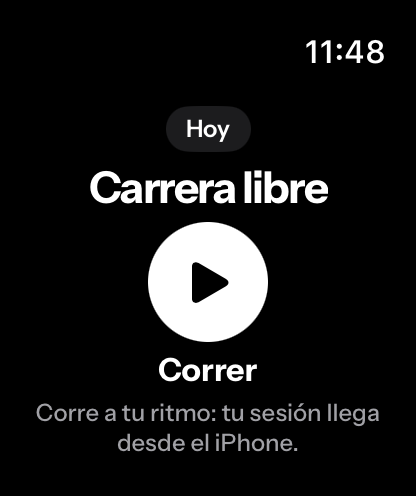
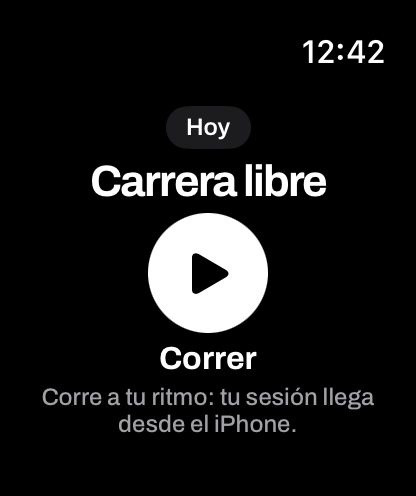
La capture de la montre est en Archivo
Claude-Session: https://claude.ai/code/session_01EC9x8EMYJdDtLWtpTwUZDH

diff --git a/PROGRESS.md b/PROGRESS.md
@@ -8838,7 +8838,7 @@ Neuf tests (`ProgrammePourUneCourseTests`), dont les fuseaux de Pacific/Auckland
 
 Les trois écrans de la montre (départ, course, bilan) passent aux aplats de l'iPhone : départ en disque blanc de 60 points portant le triangle noir, chiffres gras et
 serrés, libellés en casse de phrase, plus aucune majuscule espacée. Le rose reste `#FF0A78` (décision de Charlotte), en touches : allure, durée, barre de progression.
-Police inchangée (Instrument Sans), symboles SF conservés, boutons de course de 40 points (plancher 30).
+Symboles SF conservés, boutons de course de 40 points (plancher 30). Police : voir « La montre passe en Archivo » ci-dessous.
 
 **Vérifié sur CI** : la montre se compile, et la capture a été refaite (`montre.yml`, trois langues). Une première image avait la phrase du bas collée à l'arête de l'écran
 en anglais : `check_captures_montre.py` l'a refusée, le disque est passé de 72 à 60 points, la seconde passe est propre. Le premier relevé de cette seconde passe a échoué
@@ -8846,3 +8846,15 @@ sur un simulateur occupé (« Busy »), sans rapport avec le code ; relancé, il
 
 **Décisions de Charlotte** : aucune teinte d'alerte dans le système (on laisse comme ça) ; le rose du widget et de la montre reste l'ancien.
 **Pas vérifié** : l'écran de course et le bilan sur une vraie montre (seul l'écran de départ est photographié) ; une montre de 40 mm.
+
+## La montre passe en Archivo (20 novembre) : « oui » de Charlotte
+
+La montre écrit maintenant dans la fonte de l'iPhone, Archivo (`Archivo-Variable.ttf`, embarquée et déclarée dans l'`UIAppFonts` de la cible montre ; les cinq Instrument Sans
+n'y sont plus embarquées). UIKit n'existe pas sur le poignet : `WT.gras/semi/moyen` règlent l'axe de graisse (700, 600, 500) par un descripteur CoreText, largeur 100.
+**Pas reprise : la largeur d'affichage de l'iPhone (125 %)**, qui ferait perdre un quart de place au chrono de 42 points sur un écran de 184 de large.
+`WatchRunMetrics` garde son facteur de ligne 1,211 (celui d'Inter) comme borne haute : la ligne naturelle d'Archivo fait 1,088, donc l'écran de course occupe moins que ce que le calcul annonce.
+
+**Vérifié** : compilation de la cible montre sur CI (run n° 64), `check_fonts` et `check_spec` (une police enregistrée, livrée). La capture de l'écran de départ a été refaite et
+comparée, lettre à lettre, à un rendu d'Archivo et à un rendu d'Instrument Sans : c'est Archivo. Cette comparaison est la seule preuve de chargement : une famille introuvable ne lève
+rien, CoreText rend la police système. **Pas vérifié** : l'écran de course et le bilan, sur une vraie montre. **Resté en Instrument Sans** : le widget et la Live Activity (`DisplayFont`),
+parce que la demande portait sur la montre.
